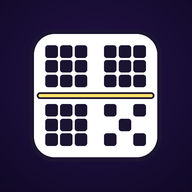
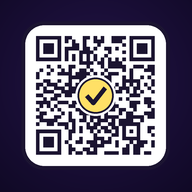
アイコンを本物の QR コード(読むとアプリが開く)に変える

diff --git a/sw.js b/sw.js
@@ -3,7 +3,7 @@
    アプリは index.html + lib/jsQR.js で完結しているので、それと アイコン類だけを覚えておく。
    index.html を直しただけなら VERSION は そのままでいい(開くたびに、まずネットで最新を取りにいくので)。
    FILES(覚えるファイル)を変えたときだけ VERSION を 1つ上げる(古い覚えを 一斉に捨てる)。 */
-const VERSION = 'qr-v1';
+const VERSION = 'qr-v2';
 const FILES = ['./', 'index.html', 'lib/jsQR.js', 'manifest.webmanifest', 'icon-192.png', 'icon-512.png', 'maskable-512.png', 'apple-touch-icon.png'];
 
 self.addEventListener('install', (e) => {
